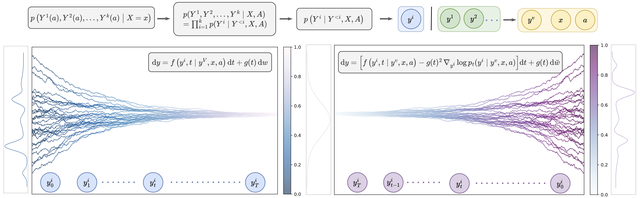
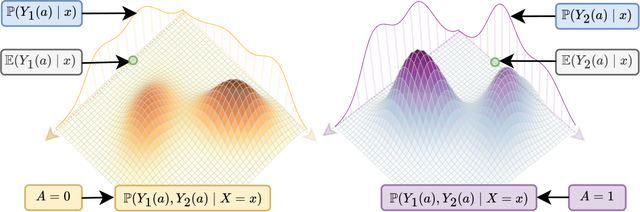
Update

diff --git a/_site/index.html b/_site/index.html
@@ -41,7 +41,7 @@
       <p class="hero-bio">My research interests are in agentic AI, large language models, and causal inference. Specifically, I build causal foundation models, develop scalable methods for personalizing LLMs, study how LLM agents can distill verified, reusable skills, and explore how multiple agents interact and collaborate. I'm happy to <a href="mailto:yuchen.ma@lmu.de">connect and discuss potential collaborations</a>.</p>
     </div>
     <div class="hero-side">
-      <img class="hero-avatar" src="./assets/img/profile.jpg" alt="Yuchen Ma | 马羽宸" loading="eager" decoding="async"/>
+      <img class="hero-avatar" src="./assets/img/profile_square.jpg" alt="Yuchen Ma | 马羽宸" loading="eager" decoding="async"/>
       <p class="hero-icons">
         <a href="mailto:yuchen.ma@lmu.de" aria-label="Email" title="Email"><svg class="hl-icon" viewBox="0 0 24 24" aria-hidden="true"><path d="M3 5h18a1 1 0 0 1 1 1v12a1 1 0 0 1-1 1H3a1 1 0 0 1-1-1V6a1 1 0 0 1 1-1Zm1 2.4V18h16V7.4l-8 5.4-8-5.4Zm.7-.4 7.3 4.95L19.3 7H4.7Z"/></svg></a>
         <a href="https://scholar.google.com/citations?user=w6hmCEYAAAAJ&hl=en" aria-label="Google Scholar" title="Google Scholar"><svg class="hl-icon" viewBox="0 0 24 24" aria-hidden="true"><path d="M12 2 1 9l4 2.55V16l7 4.5L19 16v-4.45l3-1.9V16h2V9L12 2Zm0 2.27L20.27 9 12 14.27 3.73 9 12 4.27ZM7 13.18l5 3.32 5-3.32V14.6l-5 3.2-5-3.2v-1.42Z"/></svg></a>
@@ -139,7 +139,11 @@
 
 <div class="project-row">
   <div class="project-image">
-    <img src="assets/img/proj_causalfm.png" alt="Causal Foundation Models"/>
+    <div class="project-image-split">
+      <img src="assets/img/proj_causalfm.png" alt="Causal graphs for causal inference settings" style="flex: 3.42 1 0"/>
+      <img src="assets/img/proj_dime_intro.png" alt="Multi-outcome distribution of treatments" style="flex: 3.02 1 0"/>
+    </div>
+    <img src="assets/img/proj_dime.png" alt="Diffusion-based estimation of multi-outcome distributions"/>
   </div>
   <div class="project-text">
     <h3 class="project-title">Causal Foundation Models</h3>
@@ -252,6 +256,7 @@
     {
       title: "LLM-based Treatment Effect Estimation under Inference Time Text Confounding",
       thumb: "assets/img/pub_llmtca.png",
+      thumbClass: "thumb-sm",
       link: "https://arxiv.org/abs/2507.02843",
       authors: "<strong>Yuchen Ma</strong>, Dennis Frauen, Jonas Schweisthal, Stefan Feuerriegel",
       venue: "NeurIPS",
@@ -346,7 +351,7 @@
       ? `${paper.venue} (${paper.year})`
       : `<strong>${paper.venue}</strong> (${paper.year})`;
     const thumbHtml = paper.thumb
-      ? `<a class="paper-thumb" href="${paper.link}" target="_blank" rel="noopener noreferrer"><img src="${paper.thumb}" alt="${paper.title}" loading="lazy" decoding="async"/></a>`
+      ? `<a class="paper-thumb ${paper.thumbClass || ""}" href="${paper.link}" target="_blank" rel="noopener noreferrer"><img src="${paper.thumb}" alt="${paper.title}" loading="lazy" decoding="async"/></a>`
       : "";
     return `
       <div class="paper-item">

diff --git a/_site/assets/css/style.css b/_site/assets/css/style.css
@@ -93,7 +93,7 @@ section[id], div[id] { scroll-margin-top: 62px; }
 
 .hero-grid {
   display: flex;
-  align-items: center;
+  align-items: flex-start;
   gap: 40px;
 }
 
@@ -120,6 +120,8 @@ section[id], div[id] { scroll-margin-top: 62px; }
   flex-direction: column;
   align-items: center;
   gap: 12px;
+  /* drop the photo so its top lines up with the first line of the bio */
+  margin-top: 55px;
 }
 
 .hero-avatar {
@@ -192,11 +194,26 @@ section[id], div[id] { scroll-margin-top: 62px; }
 .project-image {
   flex: 0 0 560px;
   align-self: center;
+  display: flex;
+  flex-direction: column;
+  gap: 14px;
 }
 .project-image img {
   width: 100%;
   border-radius: 4px;
   display: block;
+}
+
+/* two figures side by side; flex values track each figure's aspect ratio
+   so the pair renders at a matching height */
+.project-image-split {
+  display: flex;
+  align-items: center;
+  gap: 14px;
+}
+.project-image-split img {
+  min-width: 0;
+  width: auto;
 }
 
 .project-text { flex: 1 1 auto; min-width: 0; }
@@ -290,6 +307,8 @@ section[id], div[id] { scroll-margin-top: 62px; }
   object-position: right top;
   display: block;
 }
+/* opt-in smaller thumbnail for figures with a tall aspect ratio */
+.paper-thumb.thumb-sm img { max-height: 80px; }
 
 .paper-item .title a { font-weight: 700; }
 
@@ -438,7 +457,7 @@ section[id], div[id] { scroll-margin-top: 62px; }
 
 @media (max-width: 820px) {
   .hero-grid { flex-direction: column-reverse; align-items: center; }
-  .hero-side { flex: 0 0 auto; width: 210px; }
+  .hero-side { flex: 0 0 auto; width: 210px; margin-top: 0; }
   .hero-text { width: 100%; }
 
   .project-row { flex-direction: column; }

diff --git a/assets/css/style.css b/assets/css/style.css
@@ -93,7 +93,7 @@ section[id], div[id] { scroll-margin-top: 62px; }
 
 .hero-grid {
   display: flex;
-  align-items: center;
+  align-items: flex-start;
   gap: 40px;
 }
 
@@ -120,6 +120,8 @@ section[id], div[id] { scroll-margin-top: 62px; }
   flex-direction: column;
   align-items: center;
   gap: 12px;
+  /* drop the photo so its top lines up with the first line of the bio */
+  margin-top: 55px;
 }
 
 .hero-avatar {
@@ -192,11 +194,26 @@ section[id], div[id] { scroll-margin-top: 62px; }
 .project-image {
   flex: 0 0 560px;
   align-self: center;
+  display: flex;
+  flex-direction: column;
+  gap: 14px;
 }
 .project-image img {
   width: 100%;
   border-radius: 4px;
   display: block;
+}
+
+/* two figures side by side; flex values track each figure's aspect ratio
+   so the pair renders at a matching height */
+.project-image-split {
+  display: flex;
+  align-items: center;
+  gap: 14px;
+}
+.project-image-split img {
+  min-width: 0;
+  width: auto;
 }
 
 .project-text { flex: 1 1 auto; min-width: 0; }
@@ -290,6 +307,8 @@ section[id], div[id] { scroll-margin-top: 62px; }
   object-position: right top;
   display: block;
 }
+/* opt-in smaller thumbnail for figures with a tall aspect ratio */
+.paper-thumb.thumb-sm img { max-height: 80px; }
 
 .paper-item .title a { font-weight: 700; }
 
@@ -438,7 +457,7 @@ section[id], div[id] { scroll-margin-top: 62px; }
 
 @media (max-width: 820px) {
   .hero-grid { flex-direction: column-reverse; align-items: center; }
-  .hero-side { flex: 0 0 auto; width: 210px; }
+  .hero-side { flex: 0 0 auto; width: 210px; margin-top: 0; }
   .hero-text { width: 100%; }
 
   .project-row { flex-direction: column; }

diff --git a/index.md b/index.md
@@ -110,7 +110,11 @@ hero: true
 
 <div class="project-row">
   <div class="project-image">
-    <img src="assets/img/proj_causalfm.png" alt="Causal Foundation Models"/>
+    <div class="project-image-split">
+      <img src="assets/img/proj_causalfm.png" alt="Causal graphs for causal inference settings" style="flex: 3.42 1 0"/>
+      <img src="assets/img/proj_dime_intro.png" alt="Multi-outcome distribution of treatments" style="flex: 3.02 1 0"/>
+    </div>
+    <img src="assets/img/proj_dime.png" alt="Diffusion-based estimation of multi-outcome distributions"/>
   </div>
   <div class="project-text">
     <h3 class="project-title">Causal Foundation Models</h3>
@@ -223,6 +227,7 @@ hero: true
     {
       title: "LLM-based Treatment Effect Estimation under Inference Time Text Confounding",
       thumb: "assets/img/pub_llmtca.png",
+      thumbClass: "thumb-sm",
       link: "https://arxiv.org/abs/2507.02843",
       authors: "<strong>Yuchen Ma</strong>, Dennis Frauen, Jonas Schweisthal, Stefan Feuerriegel",
       venue: "NeurIPS",
@@ -317,7 +322,7 @@ hero: true
       ? `${paper.venue} (${paper.year})`
       : `<strong>${paper.venue}</strong> (${paper.year})`;
     const thumbHtml = paper.thumb
-      ? `<a class="paper-thumb" href="${paper.link}" target="_blank" rel="noopener noreferrer"><img src="${paper.thumb}" alt="${paper.title}" loading="lazy" decoding="async"/></a>`
+      ? `<a class="paper-thumb ${paper.thumbClass || ""}" href="${paper.link}" target="_blank" rel="noopener noreferrer"><img src="${paper.thumb}" alt="${paper.title}" loading="lazy" decoding="async"/></a>`
       : "";
     return `
       <div class="paper-item">
